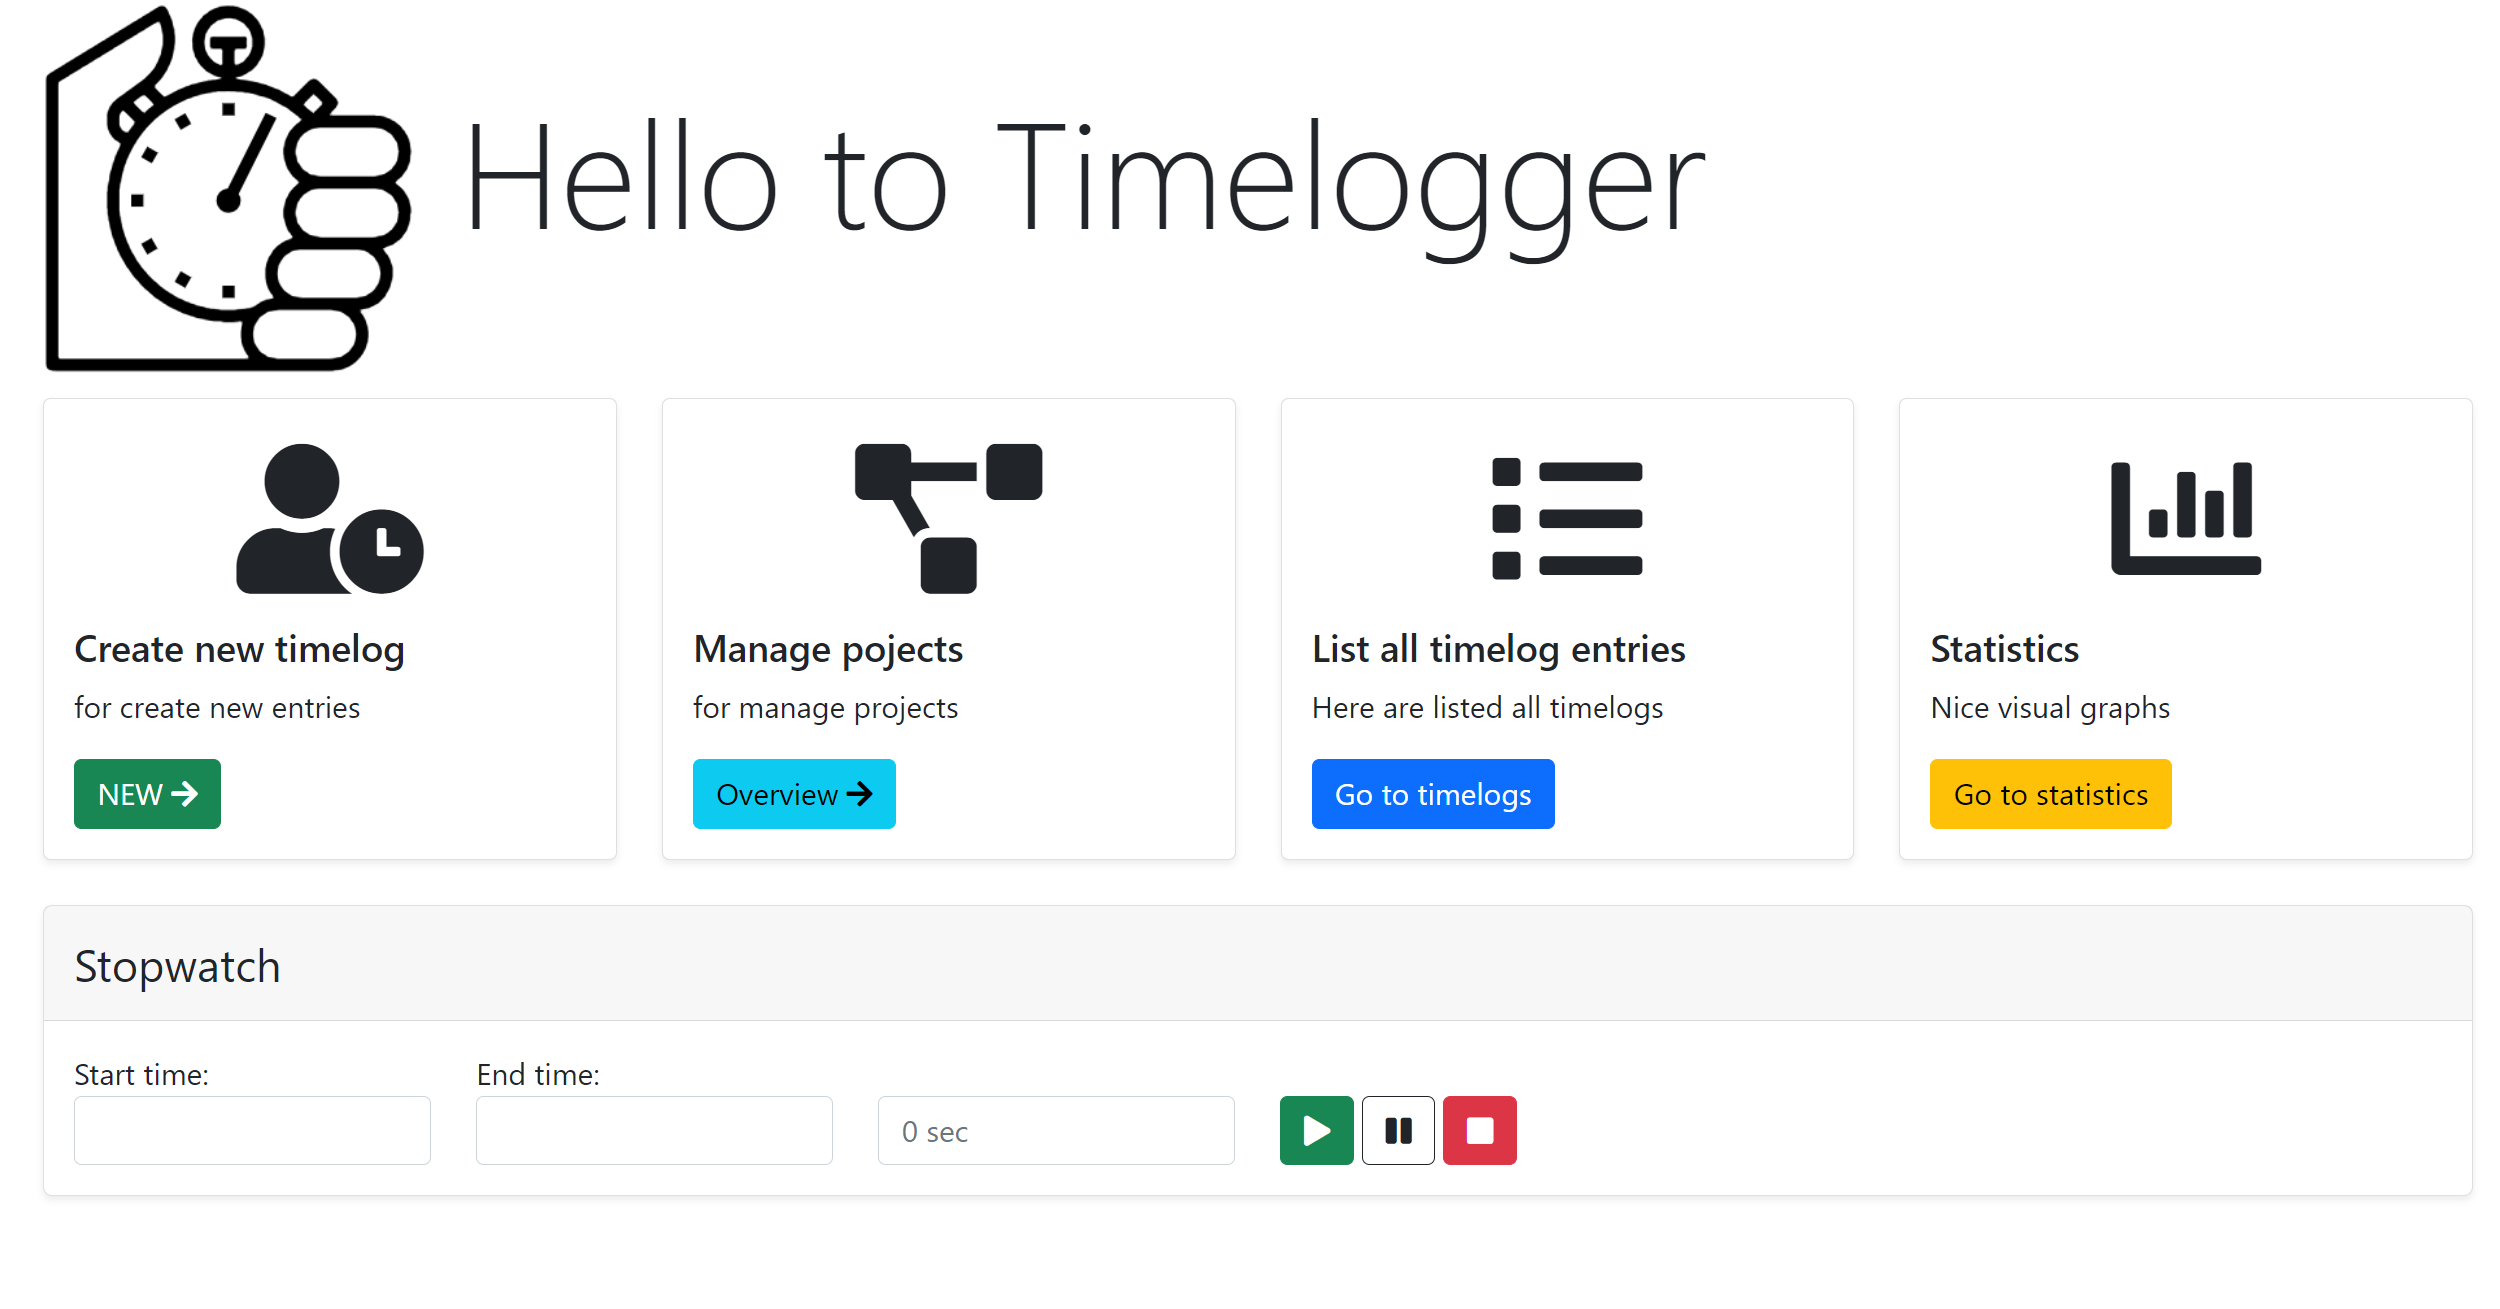
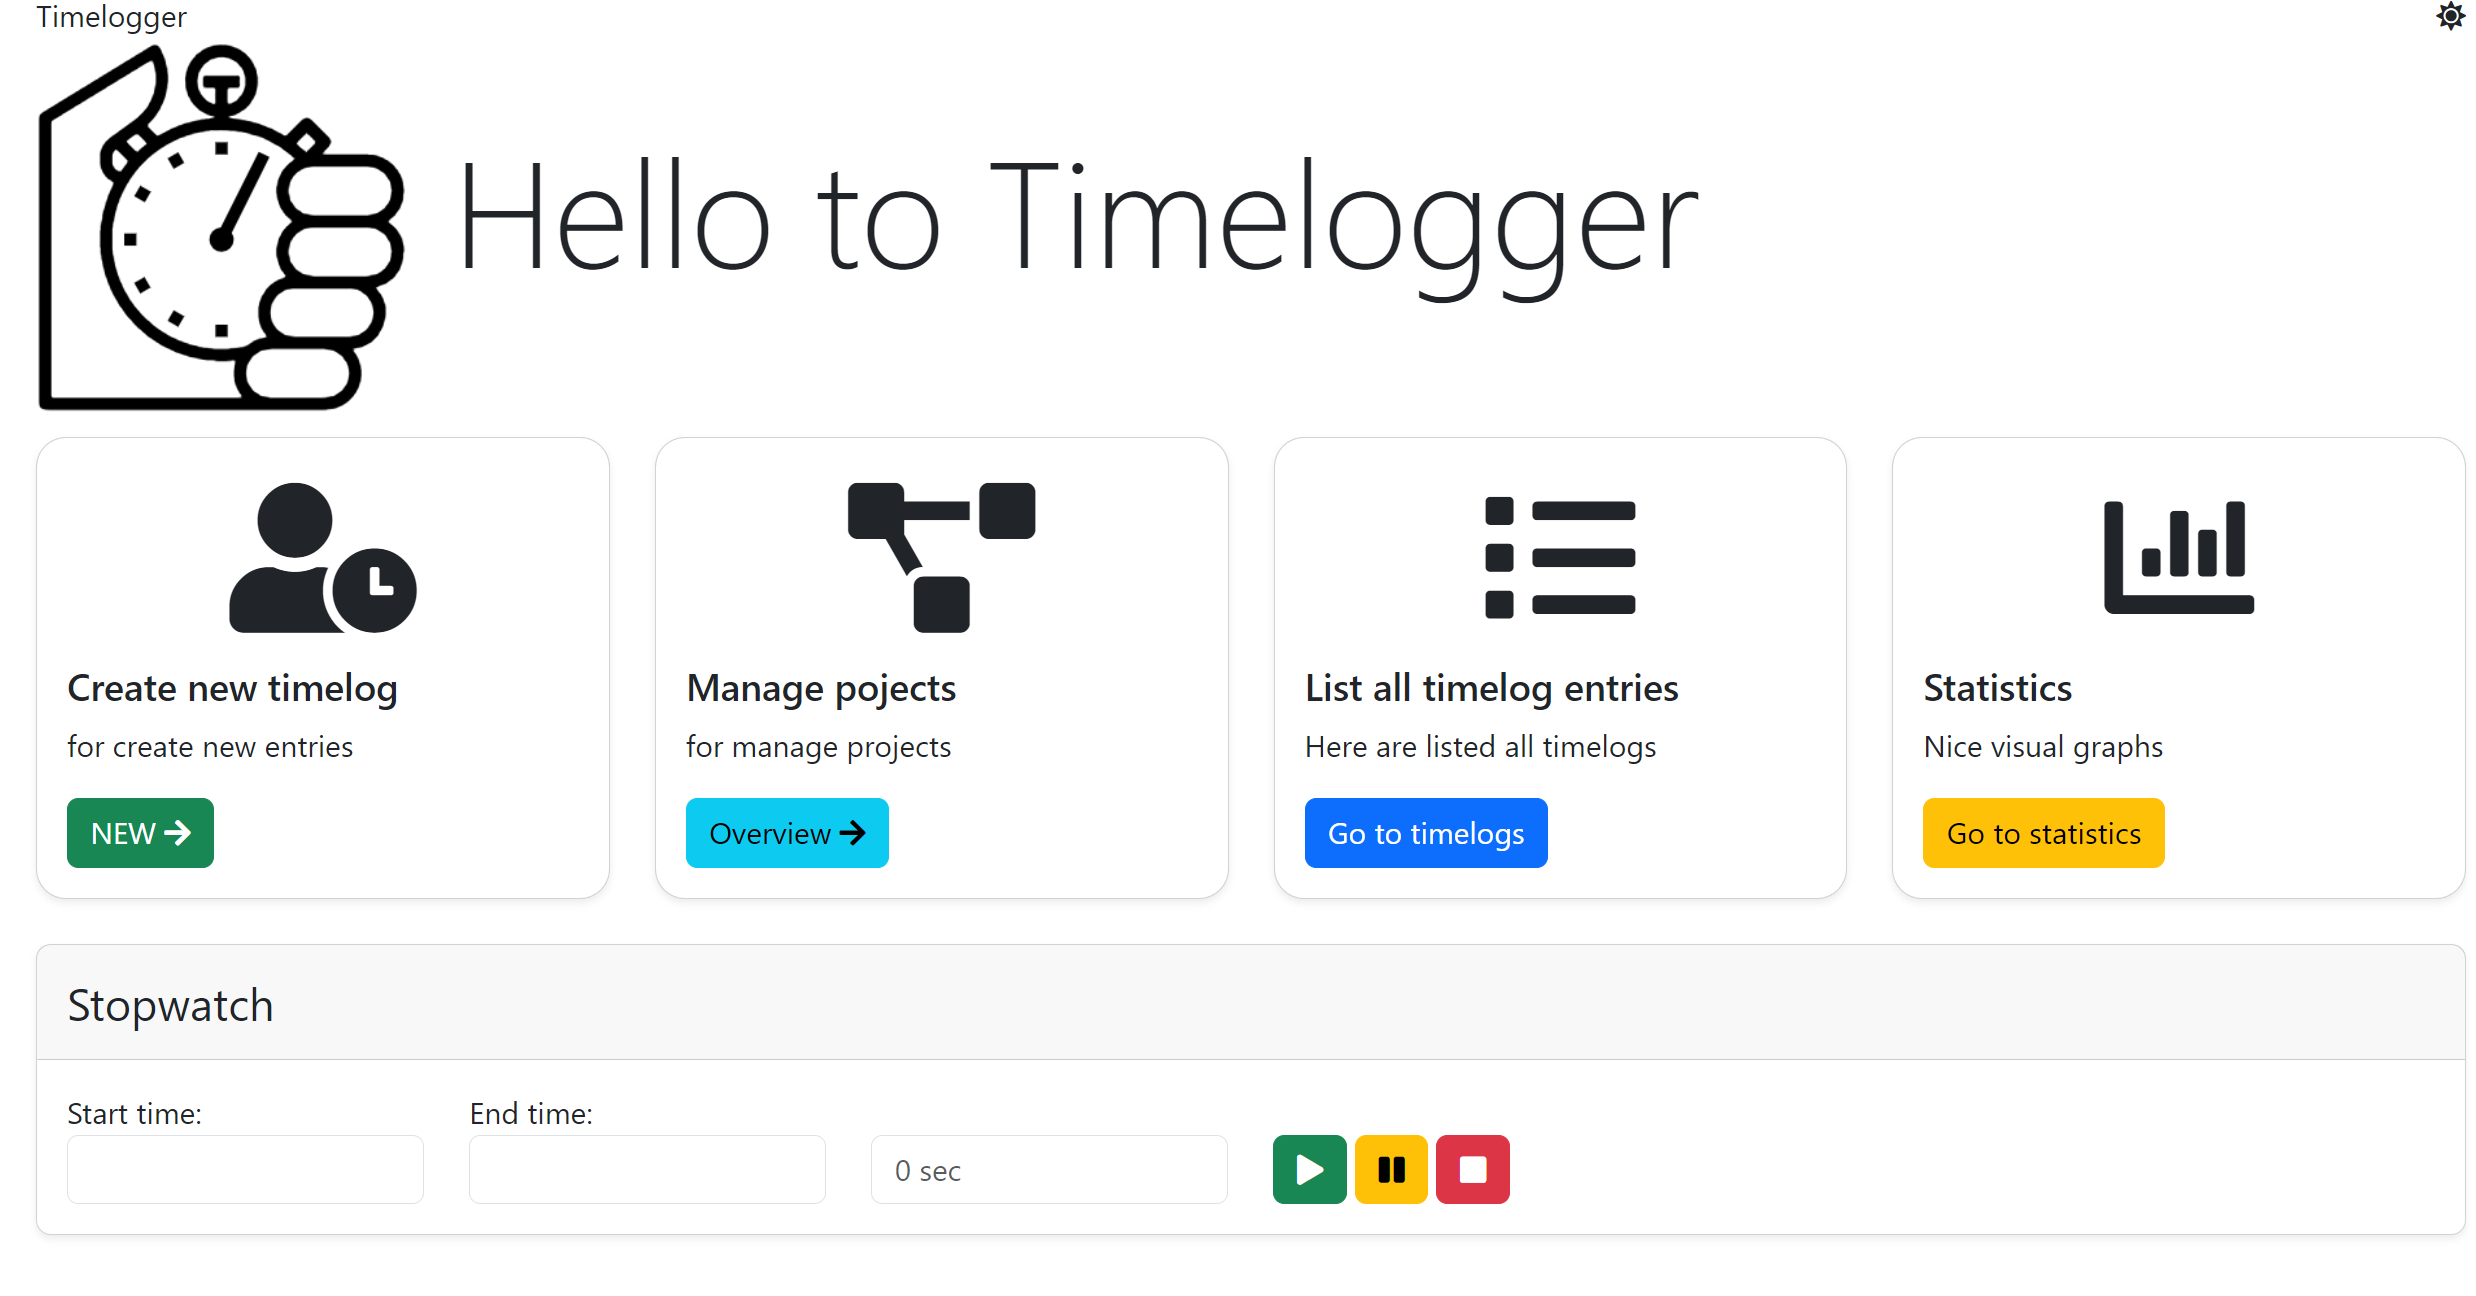
* Small nice fix: Detects from browser, which color mode is activated * new preview images

diff --git a/public/js/togglemode.js b/public/js/togglemode.js
@@ -1,4 +1,5 @@
-if (sessionStorage.getItem('darkMode') !== undefined && sessionStorage.getItem('darkMode') === 'true') {
+if ((sessionStorage.getItem('darkMode') !== null && sessionStorage.getItem('darkMode') === 'true')
+|| (sessionStorage.getItem('darkMode') === null && window.matchMedia('(prefers-color-scheme: dark)').matches)) {
     toggle('light')
 }
 

diff --git a/README.md b/README.md
@@ -46,3 +46,6 @@ Left to right:
 
 At the bottom is the automatic stopwatch which tracks work times. If work is paused you can also click
 on the pause button to stop tracking. And afterwards resuming is also available, like a usual stopwatch 
+
+With darmode enabled, it looks like this:
+![Preview](preview-dark.png "Homescreen")
